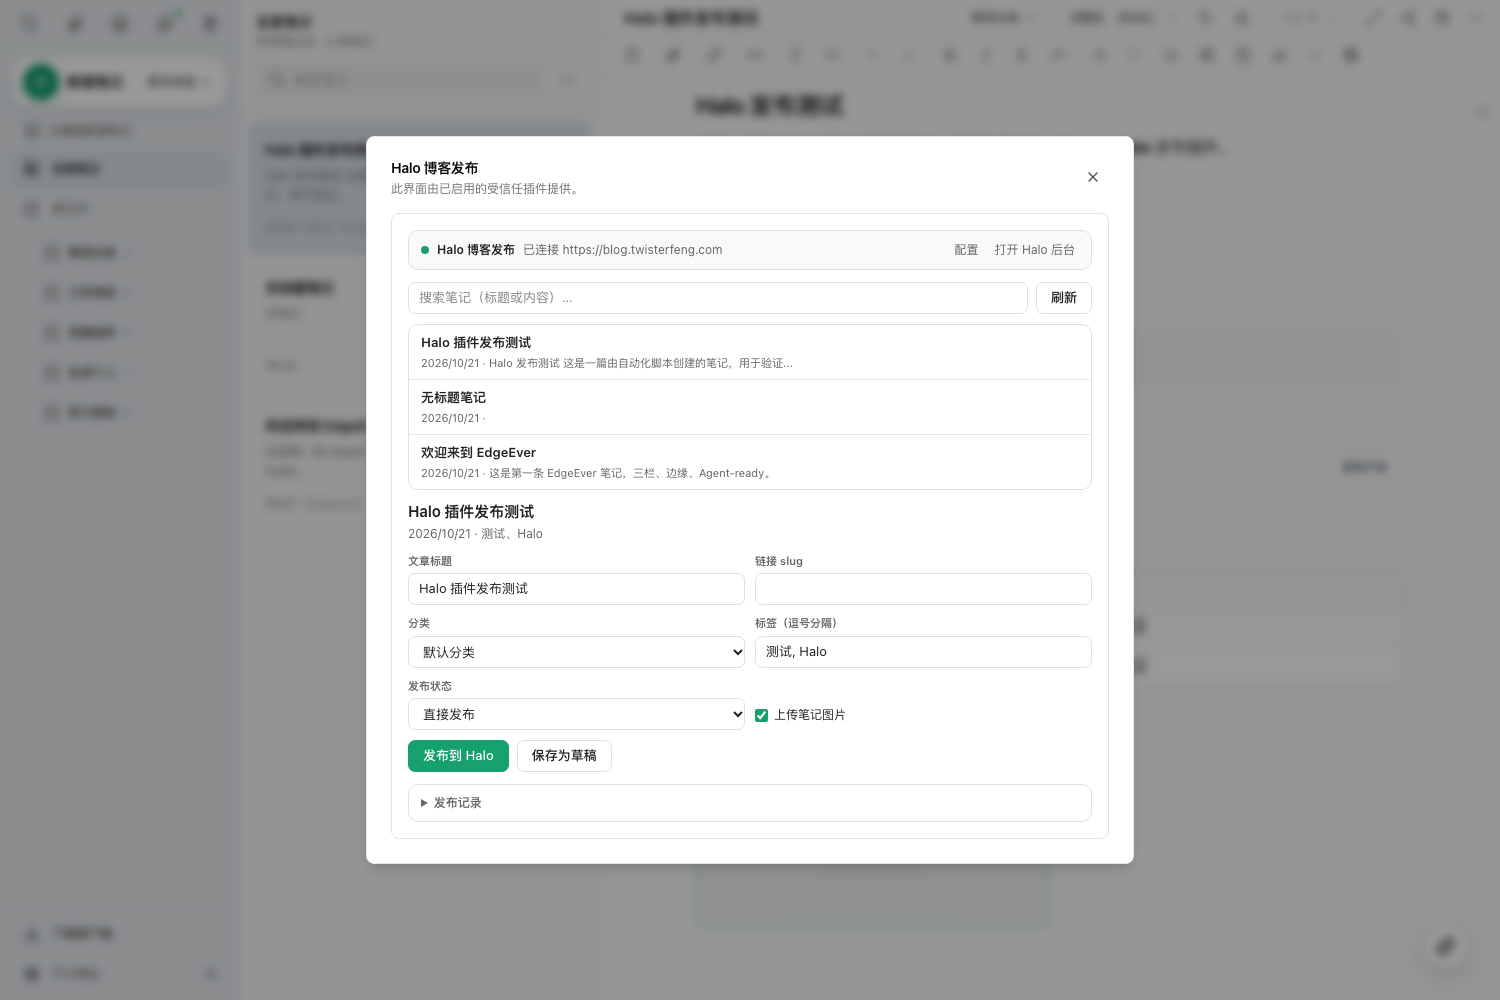
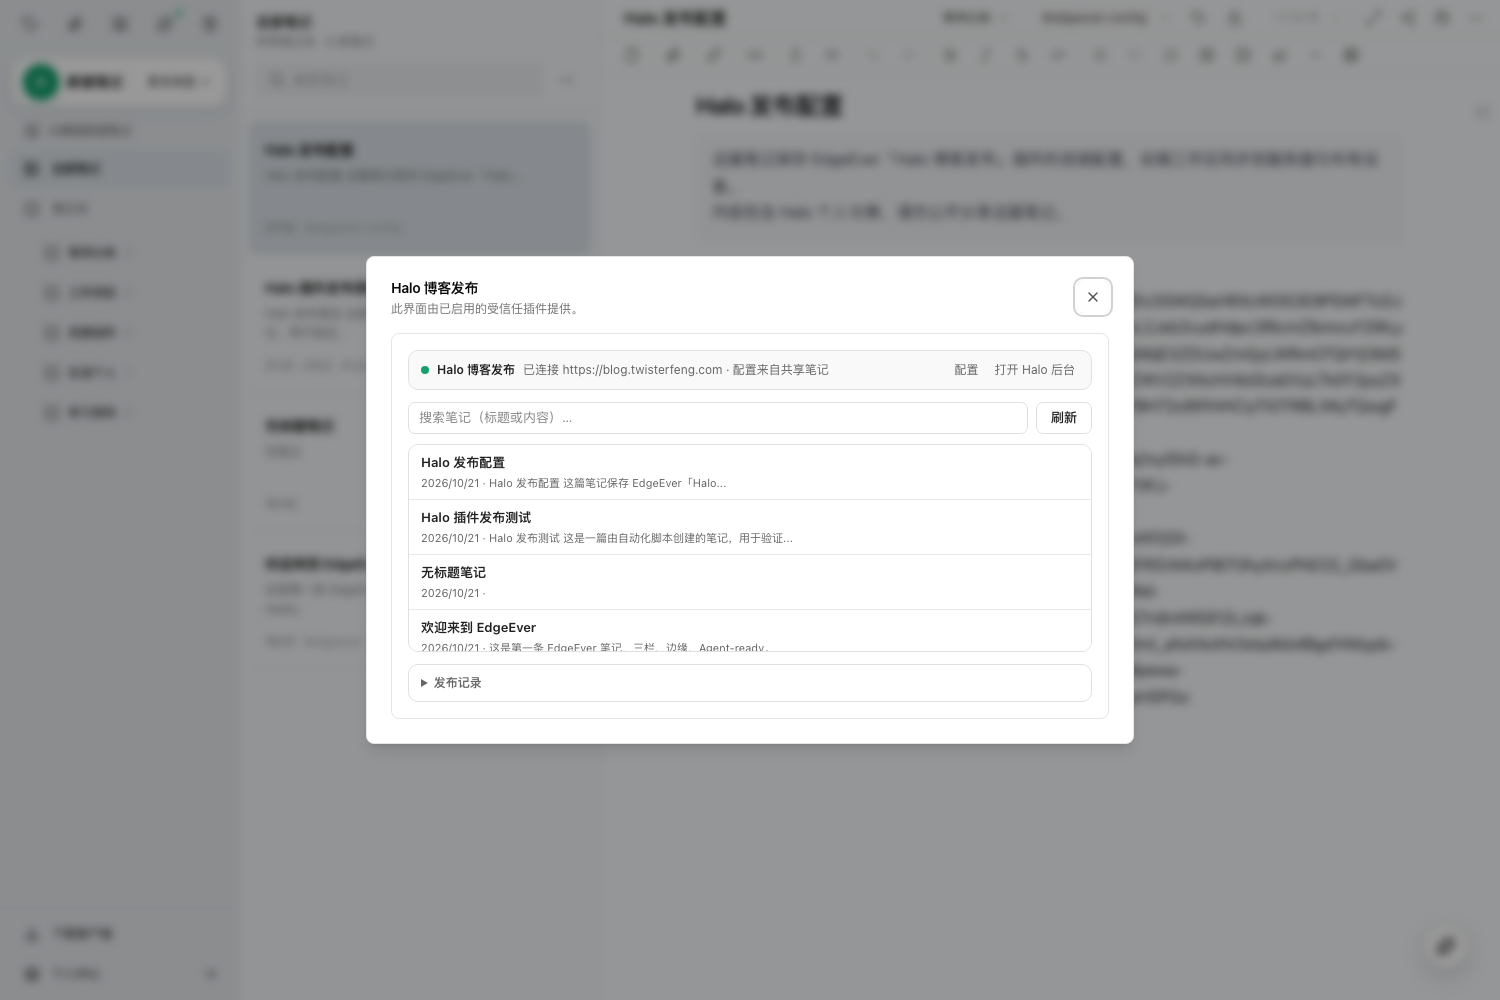
docs: sync mappings across devices + refresh panel screenshot

diff --git a/README.md b/README.md
@@ -14,7 +14,8 @@ An EdgeEver client plugin that publishes / updates your EdgeEver notes on a Halo
 - **Markdown 渲染**：GFM（标题、列表、表格、代码块、引用等）→ 经 DOMPurify 清洗的 HTML。
 - **跨设备共享配置**（推荐）：把 Halo 地址 + 令牌保存为一篇工作区笔记《Halo 发布配置》，
   随 EdgeEver 工作区同步到服务器，**其它设备首次使用无需重新填配置**。
-- **发布映射与历史**：记录笔记 ↔ Halo 文章映射、文章链接与发布记录；支持「更新已发布文章 / 更新并保存草稿」。
+- **发布映射跨设备同步**：笔记 ↔ Halo 文章映射保存在工作区笔记《Halo 发布记录》里，其它设备可直接更新同一篇文章，不会重复建文。
+- **发布历史与状态**：文章链接、发布/草稿状态可查；支持「更新已发布文章 / 更新并保存草稿」。
 - **连接自检**：实时显示连接状态，令牌失效时给出可读错误。
 - **Web / 桌面端可用**，支持深色模式。
 
